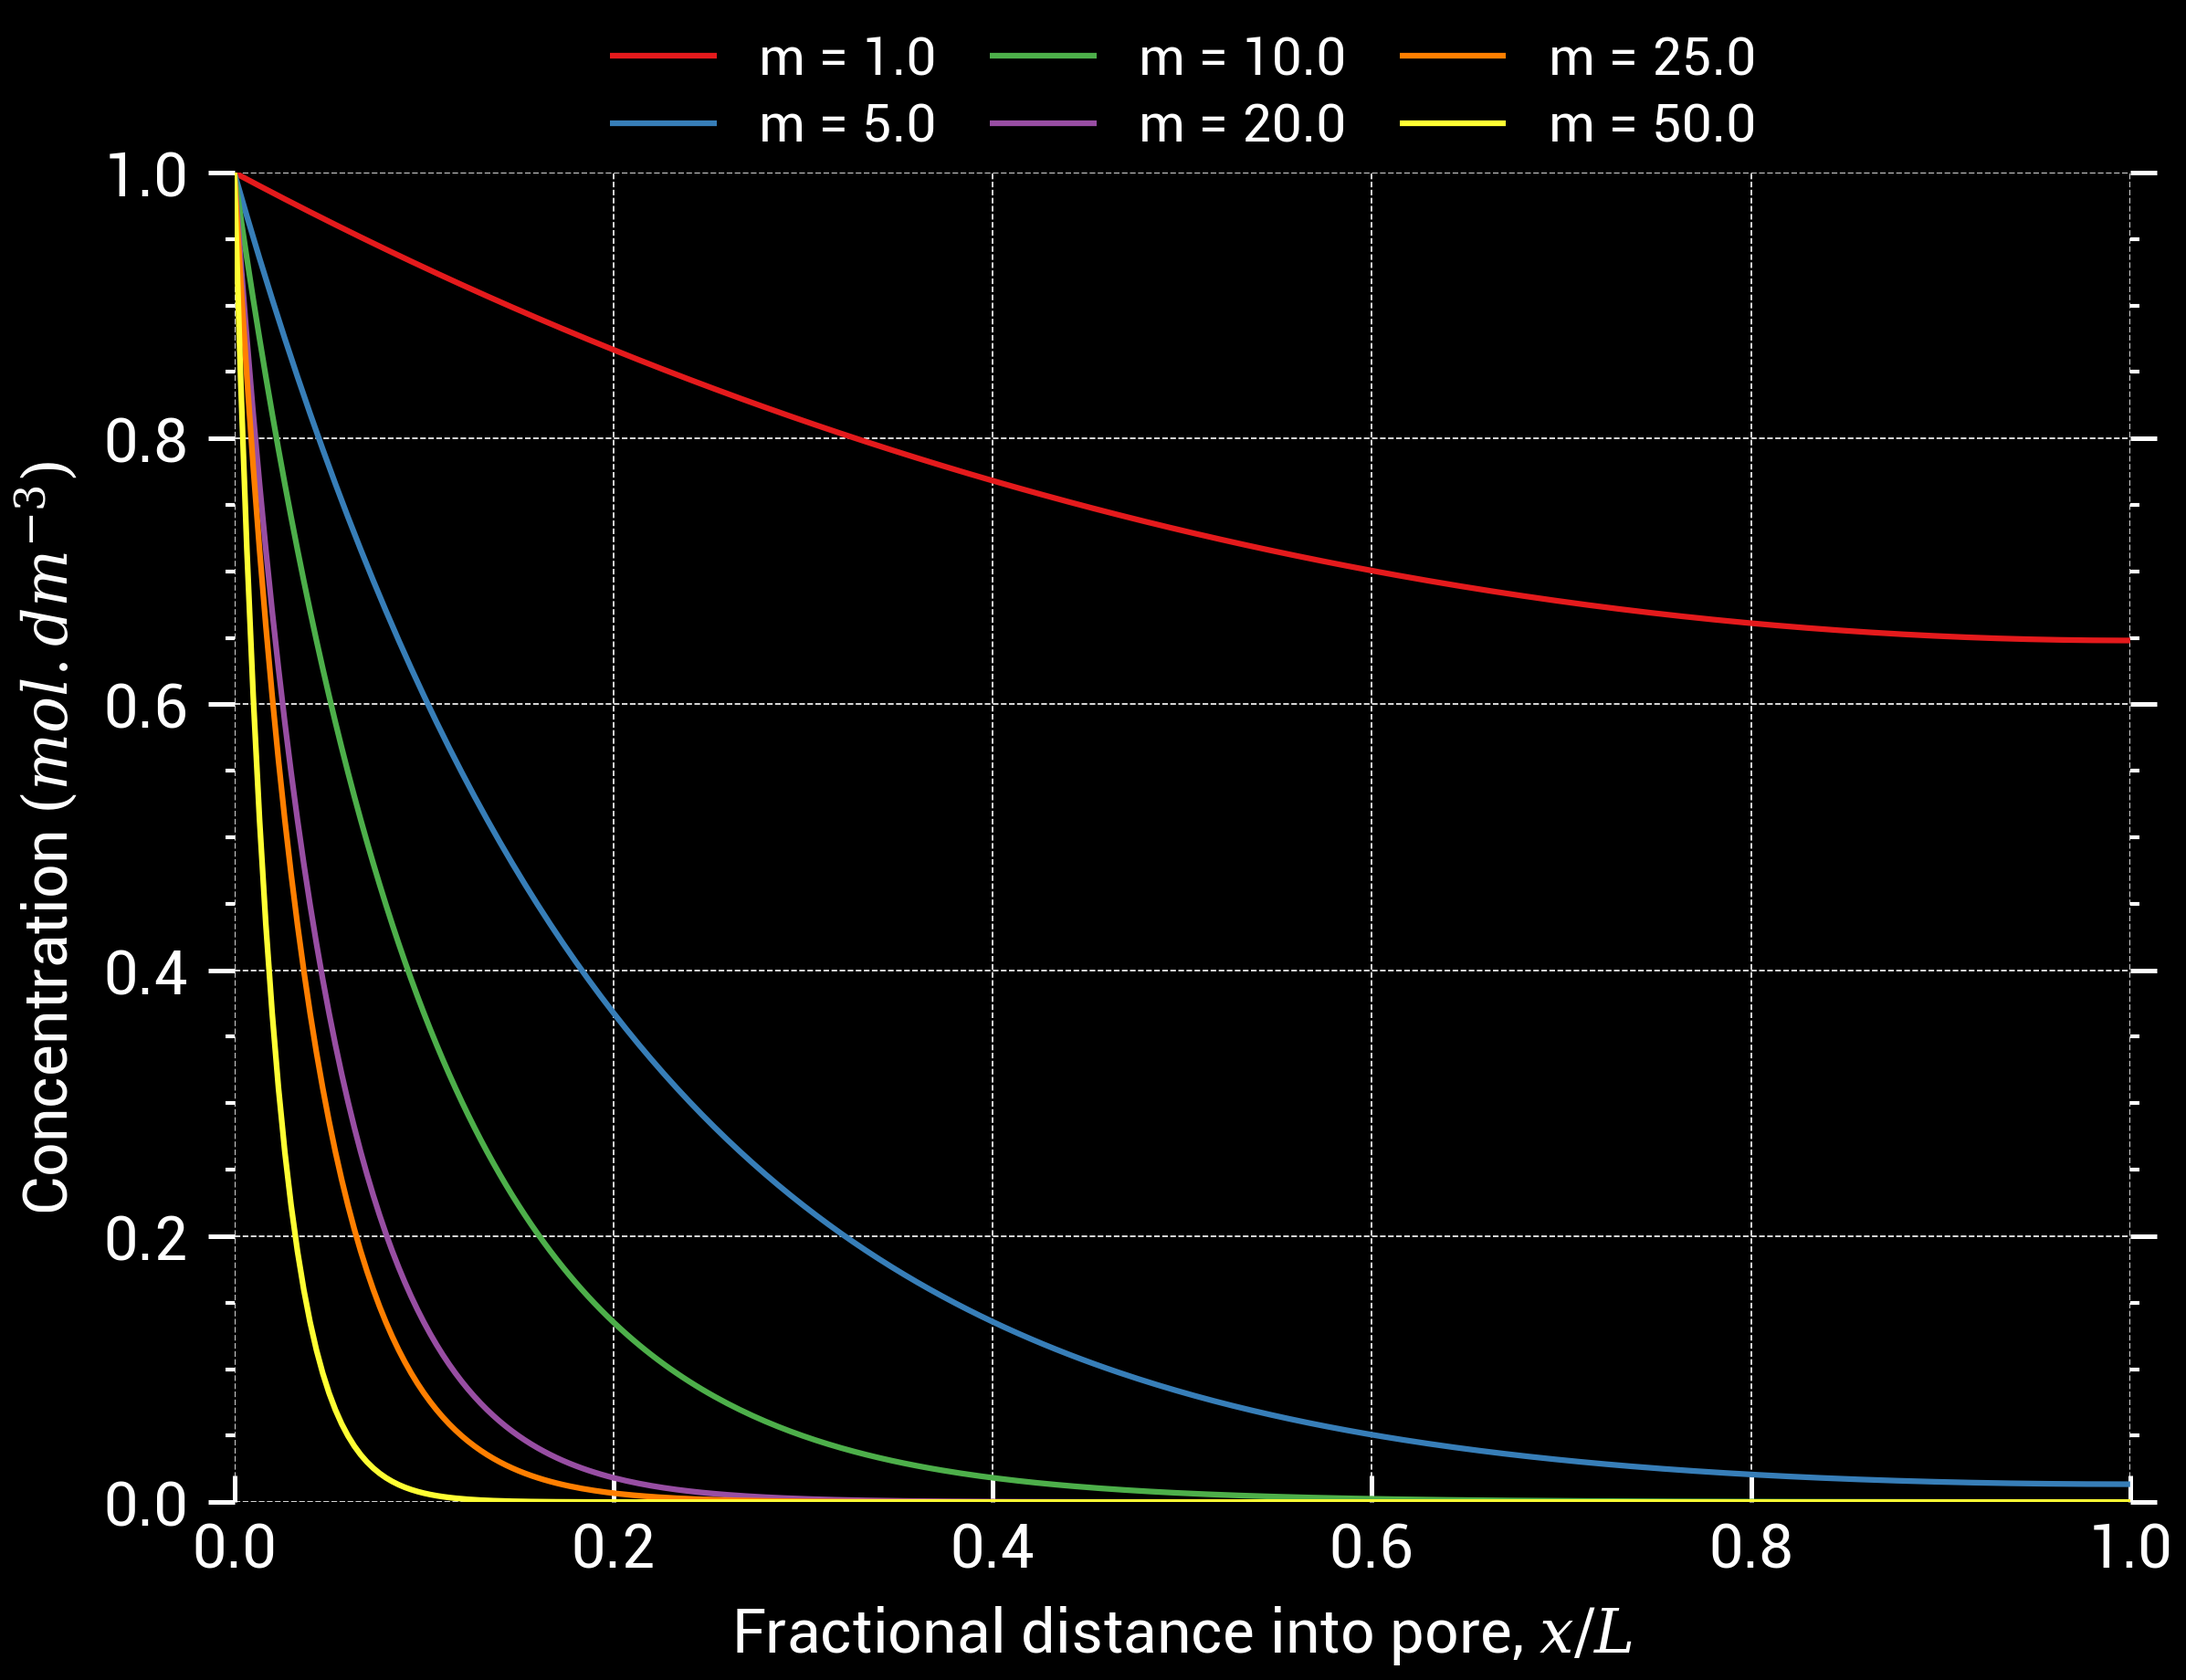
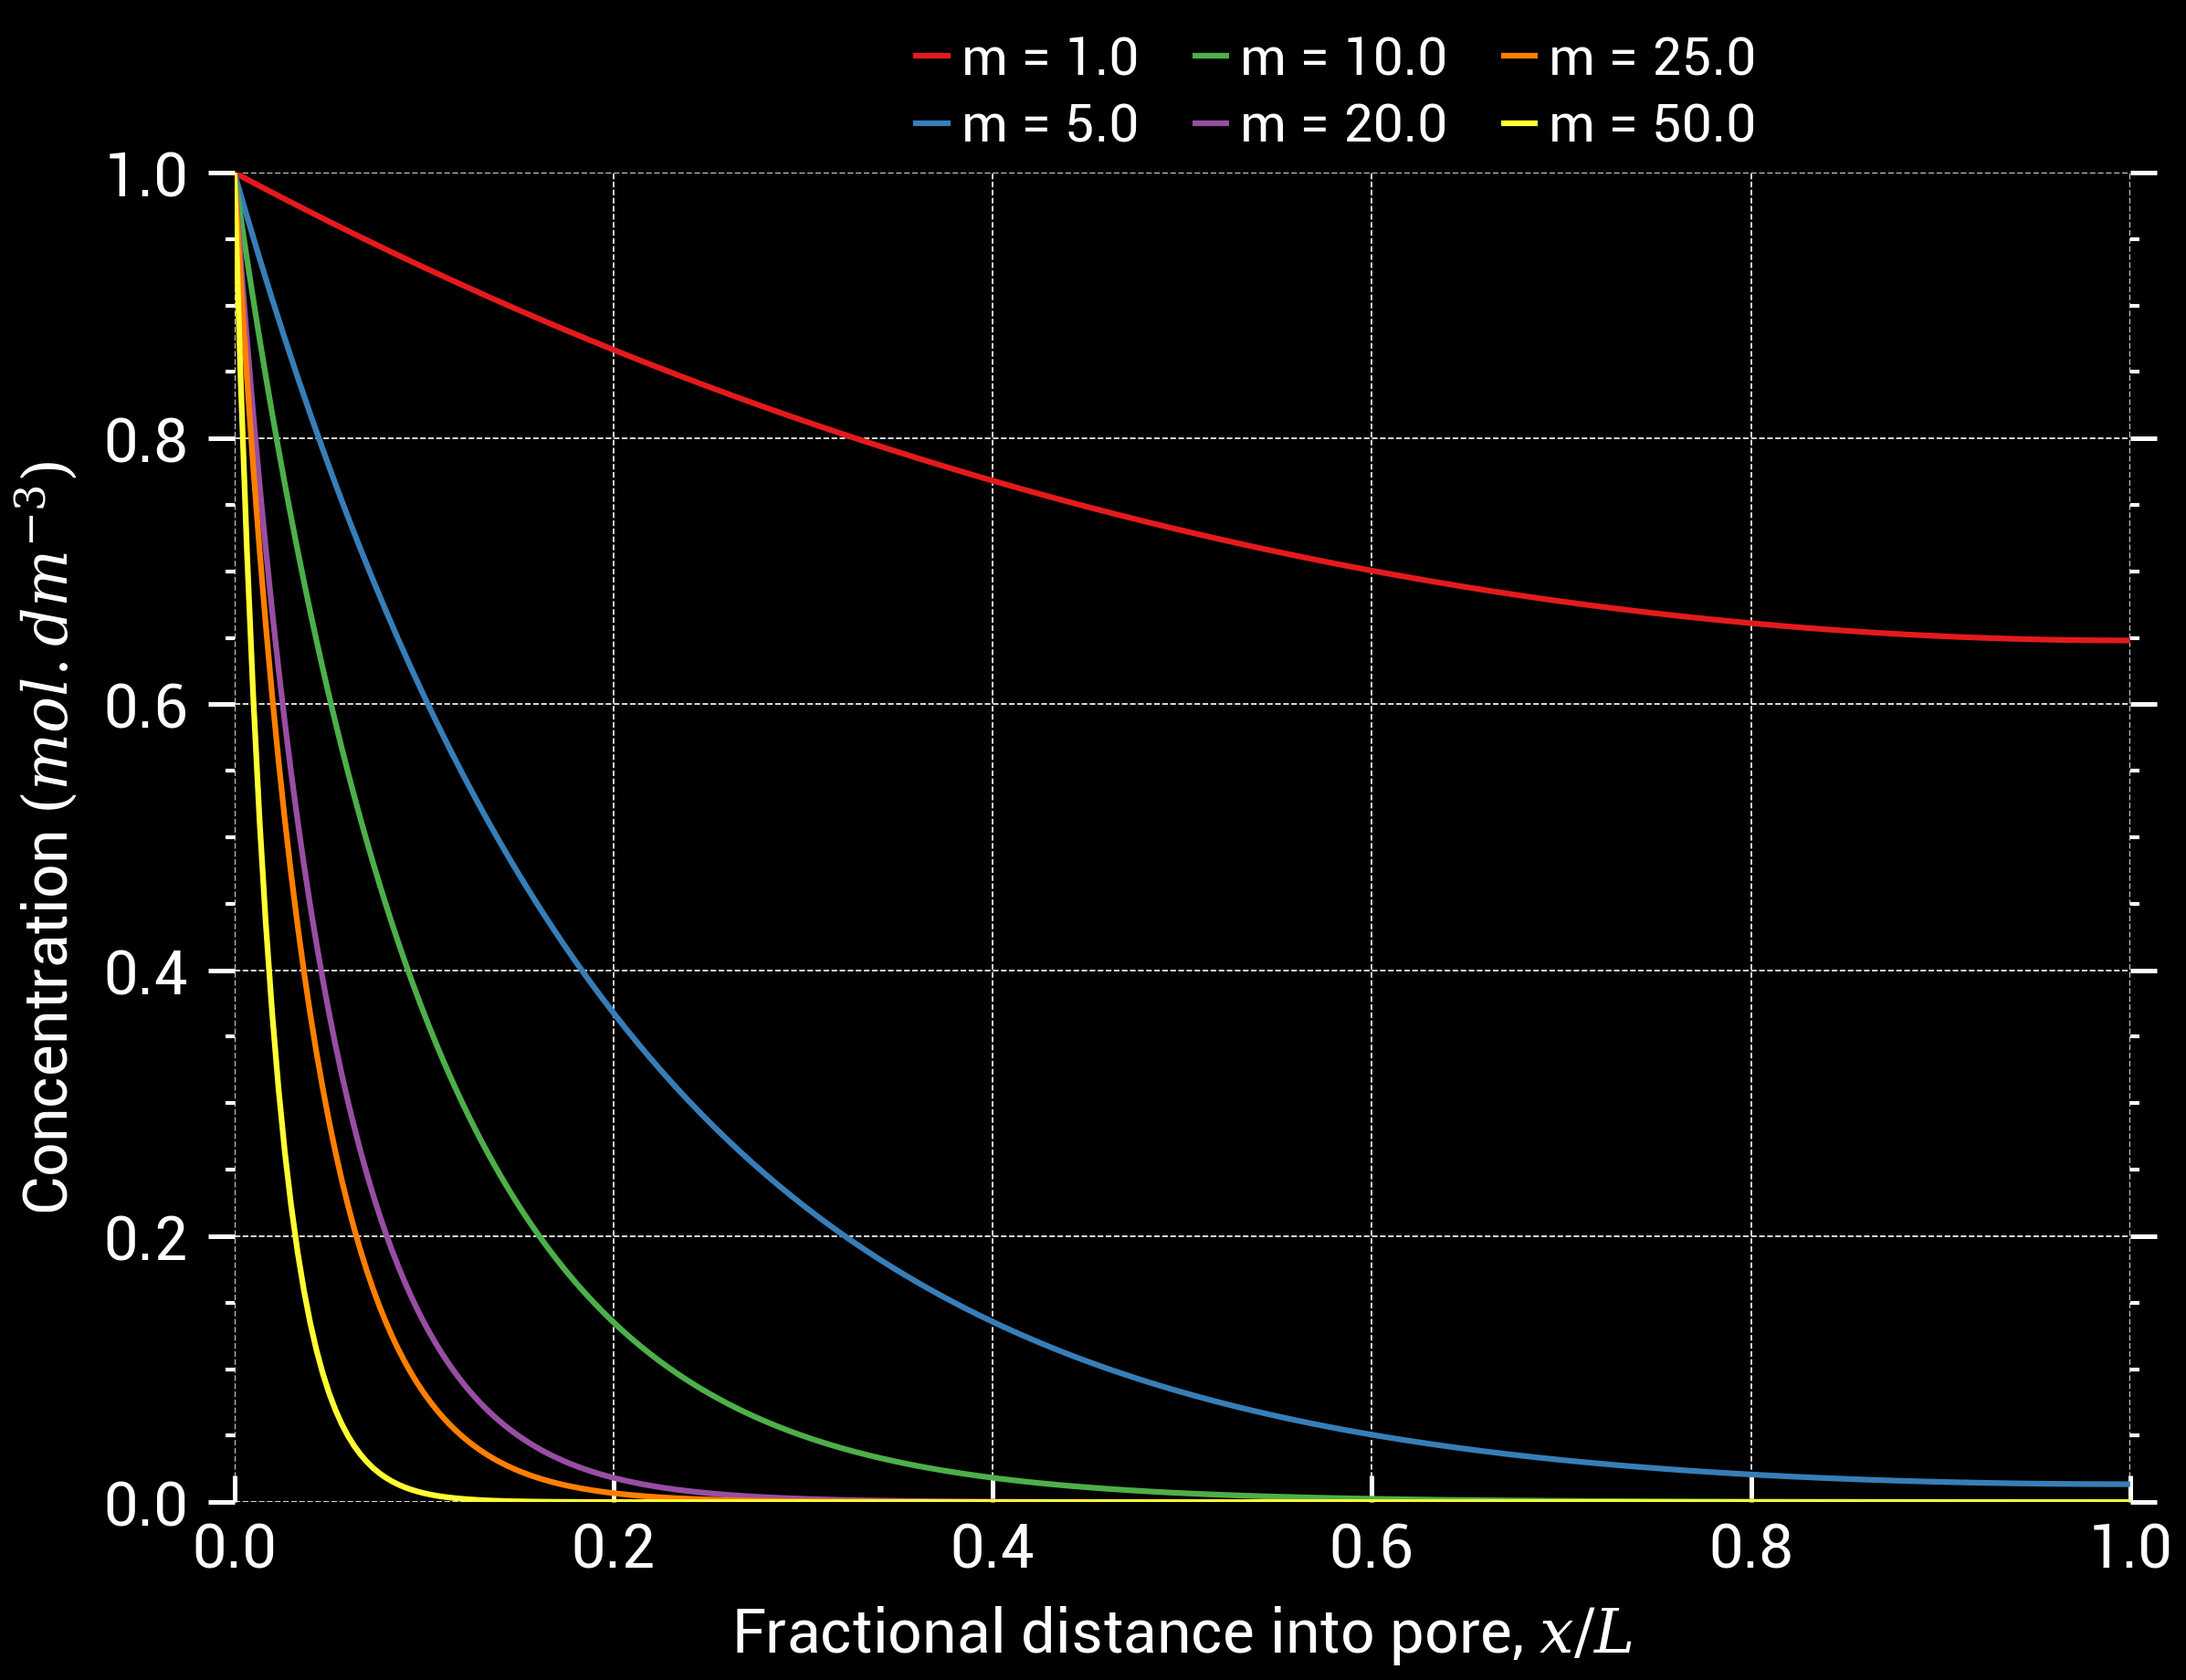
ajuste na legenda

Changed region(s): [[0.34, 0.0, 0.68, 0.0929], [0.2782, 0.031, 0.3091, 0.0929]]

diff --git a/styles/plotconfig.py b/styles/plotconfig.py
@@ -1,0 +1,44 @@
+import matplotlib as mpl
+
+
+def plotconfig():
+    figwidth = 6
+    figheight =5
+    fontsize0=14
+
+    labelsize = fontsize0*1.1
+    titlesize = fontsize0*1.1
+
+    mpl.style.use('classic')
+    mpl.rcParams.update({'font.size':fontsize0 })
+    mpl.rcParams.update({'legend.fontsize':fontsize0 })# legend
+    mpl.rcParams.update({'axes.titlesize':titlesize})       # Title
+    mpl.rcParams.update({'axes.labelsize':labelsize})    # x,y,cbar labels
+    mpl.rcParams.update({'figure.titlesize' :titlesize})
+    mpl.rcParams.update({'xtick.labelsize':fontsize0 , 'ytick.labelsize':fontsize0,
+                         'xtick.direction':'in',      'ytick.direction':'in',
+                         'xtick.major.size':6,        'ytick.major.size':6})
+    mpl.rcParams.update({'xtick.top':True,  'ytick.right':True})
+
+    mpl.rcParams.update({'axes.formatter.use_mathtext':True})
+    mpl.rcParams.update({'axes.formatter.limits':[-3,3]})
+    mpl.rcParams.update({'axes.formatter.useoffset':False})   # no offset of axis
+
+    mpl.rcParams.update({'figure.figsize':[figwidth,figheight]})
+    mpl.rcParams.update({'savefig.bbox':'tight'})
+    mpl.rcParams.update({'image.cmap':'jet'})
+
+    mpl.rcParams.update({'lines.markeredgewidth':2,
+                         'lines.markersize':6})
+
+    #Legend
+    mpl.rcParams.update({'legend.handletextpad':0.3,'legend.borderaxespad':0.1,
+                         'legend.handlelength':1,'legend.labelspacing':0.2,'legend.borderpad':0.3})
+
+    # To get sans-serif
+    mpl.rcParams.update({'font.style':'normal'})
+    mpl.rcParams.update({'font.family':'serif'})
+    mpl.rcParams.update({'mathtext.fontset':'dejavuserif'})
+
+if __name__ =="__main__":
+    plotconfig()
